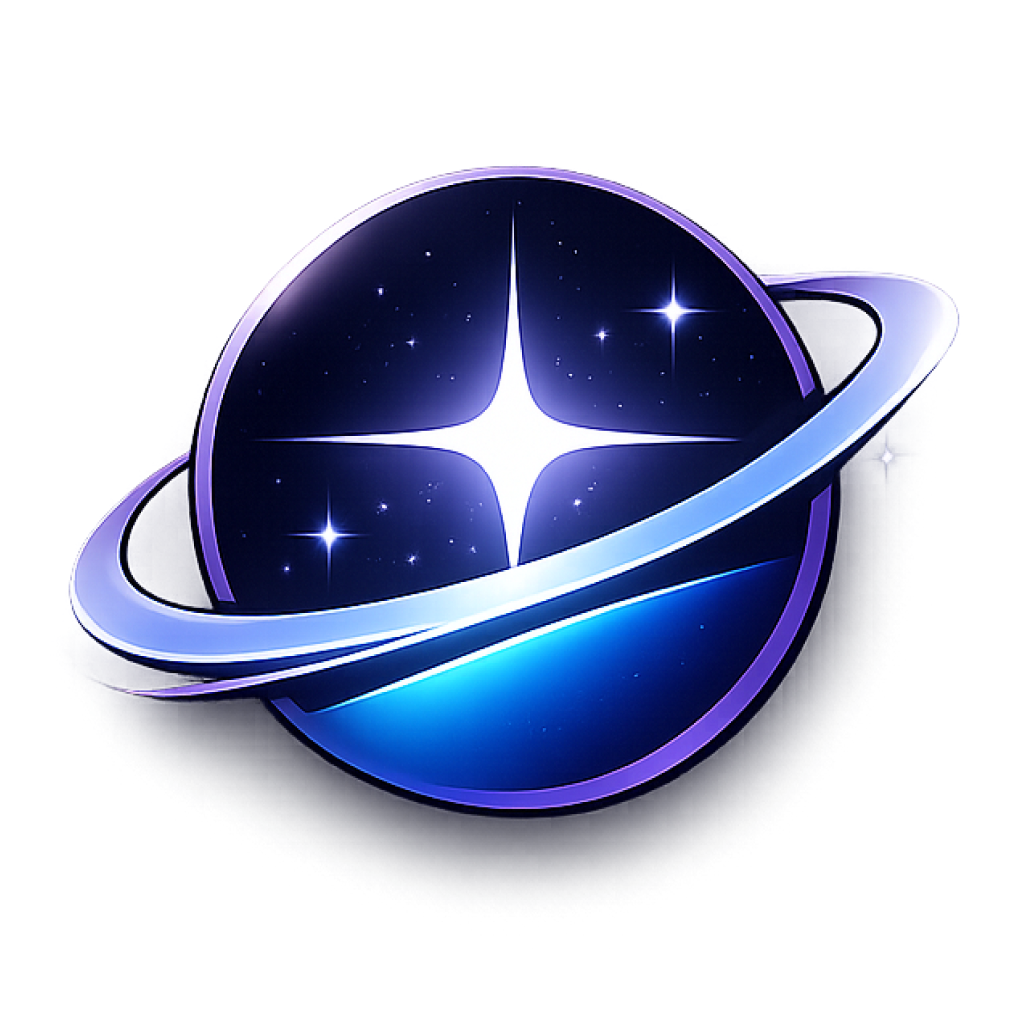
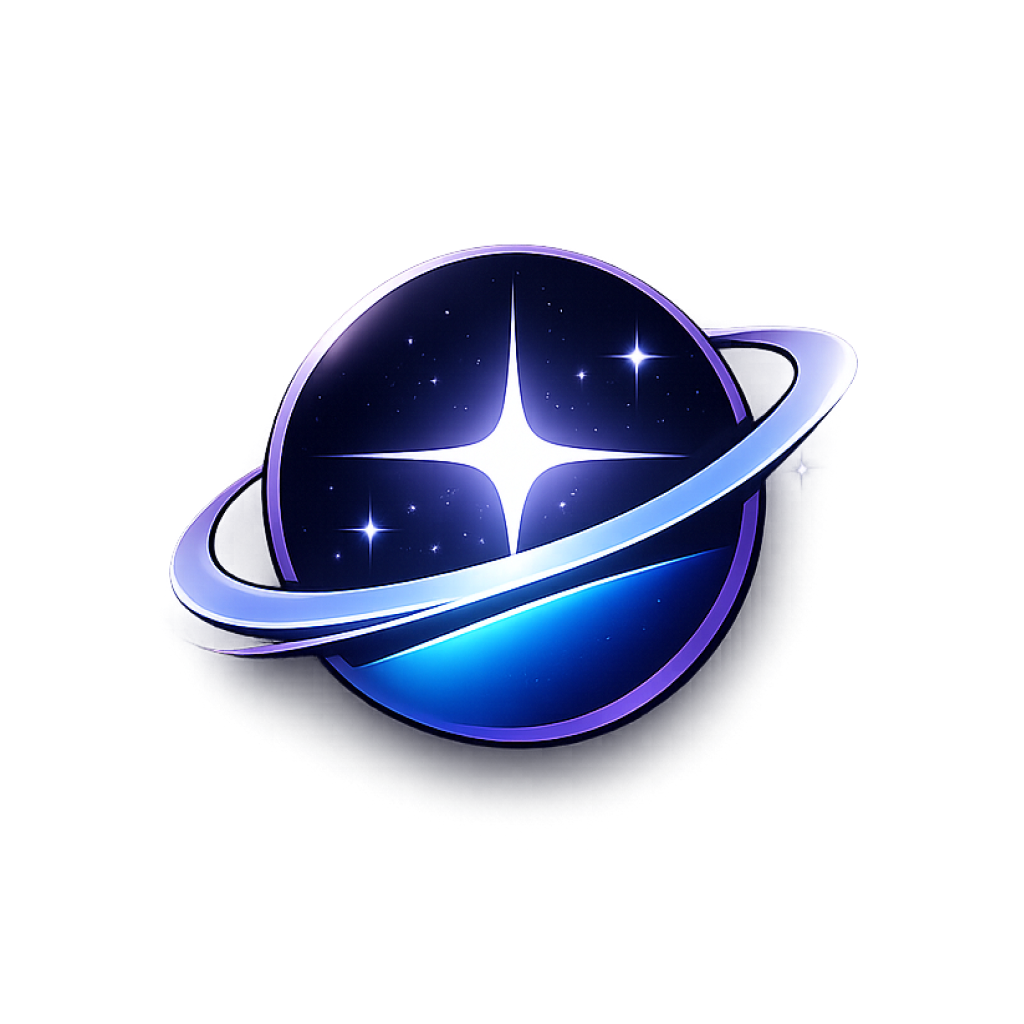
Implement a custom splash screen for web and update branding assets across mobile platforms.
### Web Infrastructure
- **index.html**:
    - Introduced a native CSS-based splash screen with a dark background (`#040B16`) and centered alignment.
    - Added a `<picture>` element to handle light and dark mode splash image variants.
    - Implemented a `removeSplashFromWeb` JavaScript function to programmatically clean up the splash UI after app initialization.
    - Updated the `viewport` meta tag to refine scaling behavior on mobile devices.
    - Minified parts of the HTML structure for better delivery.

### Assets & Branding
- **Android**: Updated `android12splash.png` and `splash.png` across all density buckets (hdpi to xxxhdpi) for both standard and night modes.
- **iOS**: Updated `LaunchImage` assets for all scale factors (@1x, @2x, @3x) in `Assets.xcassets`.
- **General**: Refreshed the core `galaxydox.png` brand asset.

diff --git a/web/index.html b/web/index.html
@@ -1,6 +1,4 @@
-<!DOCTYPE html>
-<html>
-<head>
+<!DOCTYPE html><html><head>
   <!--
     If you are serving your web app in a path other than the root, change the
     href value below to reflect the base path you are serving from.
@@ -18,10 +16,7 @@
 
   <meta charset="UTF-8">
   <meta content="IE=Edge" http-equiv="X-UA-Compatible">
-  <meta
-    name="description"
-    content="GalaxyDox is a premium NASA explorer app built with Flutter."
-  >
+  <meta name="description" content="GalaxyDox is a premium NASA explorer app built with Flutter.">
 
   <!-- iOS meta tags & icons -->
   <meta name="mobile-web-app-capable" content="yes">
@@ -30,19 +25,92 @@
   <link rel="apple-touch-icon" href="icons/App-192.png?v=20260416">
 
   <!-- Favicon -->
-  <link rel="icon" type="image/png" href="favicon-app.png?v=20260416"/>
-  <link rel="shortcut icon" type="image/png" href="favicon-app.png?v=20260416"/>
+  <link rel="icon" type="image/png" href="favicon-app.png?v=20260416">
+  <link rel="shortcut icon" type="image/png" href="favicon-app.png?v=20260416">
 
-  <script
-    type="module"
-    src="./assets/packages/model_viewer_plus/assets/model-viewer.min.js"
-    defer
-  ></script>
+  <script type="module" src="./assets/packages/model_viewer_plus/assets/model-viewer.min.js" defer=""></script>
 
   <title>GalaxyDox</title>
   <link rel="manifest" href="manifest.json">
+  
+  
+  <meta content="width=device-width, initial-scale=1.0, maximum-scale=1.0, user-scalable=no" name="viewport">
+  
+  
+  <style id="splash-screen-style">
+    html {
+      height: 100%
+    }
+
+    body {
+      margin: 0;
+      min-height: 100%;
+      background-color: #040B16;
+          background-size: 100% 100%;
+    }
+
+    .center {
+      margin: 0;
+      position: absolute;
+      top: 50%;
+      left: 50%;
+      -ms-transform: translate(-50%, -50%);
+      transform: translate(-50%, -50%);
+    }
+
+    .contain {
+      display:block;
+      width:100%; height:100%;
+      object-fit: contain;
+    }
+
+    .stretch {
+      display:block;
+      width:100%; height:100%;
+    }
+
+    .cover {
+      display:block;
+      width:100%; height:100%;
+      object-fit: cover;
+    }
+
+    .bottom {
+      position: absolute;
+      bottom: 0;
+      left: 50%;
+      -ms-transform: translate(-50%, 0);
+      transform: translate(-50%, 0);
+    }
+
+    .bottomLeft {
+      position: absolute;
+      bottom: 0;
+      left: 0;
+    }
+
+    .bottomRight {
+      position: absolute;
+      bottom: 0;
+      right: 0;
+    }
+  </style>
+  <script id="splash-screen-script">
+    function removeSplashFromWeb() {
+      document.getElementById("splash")?.remove();
+      document.getElementById("splash-branding")?.remove();
+      document.body.style.background = "transparent";
+    }
+  </script>
 </head>
 <body>
+  <picture id="splash">
+      <source srcset="splash/img/light-1x.png 1x, splash/img/light-2x.png 2x, splash/img/light-3x.png 3x, splash/img/light-4x.png 4x" media="(prefers-color-scheme: light)">
+      <source srcset="splash/img/dark-1x.png 1x, splash/img/dark-2x.png 2x, splash/img/dark-3x.png 3x, splash/img/dark-4x.png 4x" media="(prefers-color-scheme: dark)">
+      <img class="center" aria-hidden="true" src="splash/img/light-1x.png" alt="">
+  </picture>
+  
+  
   <!--
     You can customize the "flutter_bootstrap.js" script.
     This is useful to provide a custom configuration to the Flutter loader
@@ -51,6 +119,7 @@
     For more details:
     * https://docs.flutter.dev/platform-integration/web/initialization
   -->
-  <script src="flutter_bootstrap.js" async></script>
-</body>
-</html>
+  <script src="flutter_bootstrap.js" async=""></script>
+
+
+</body></html>
